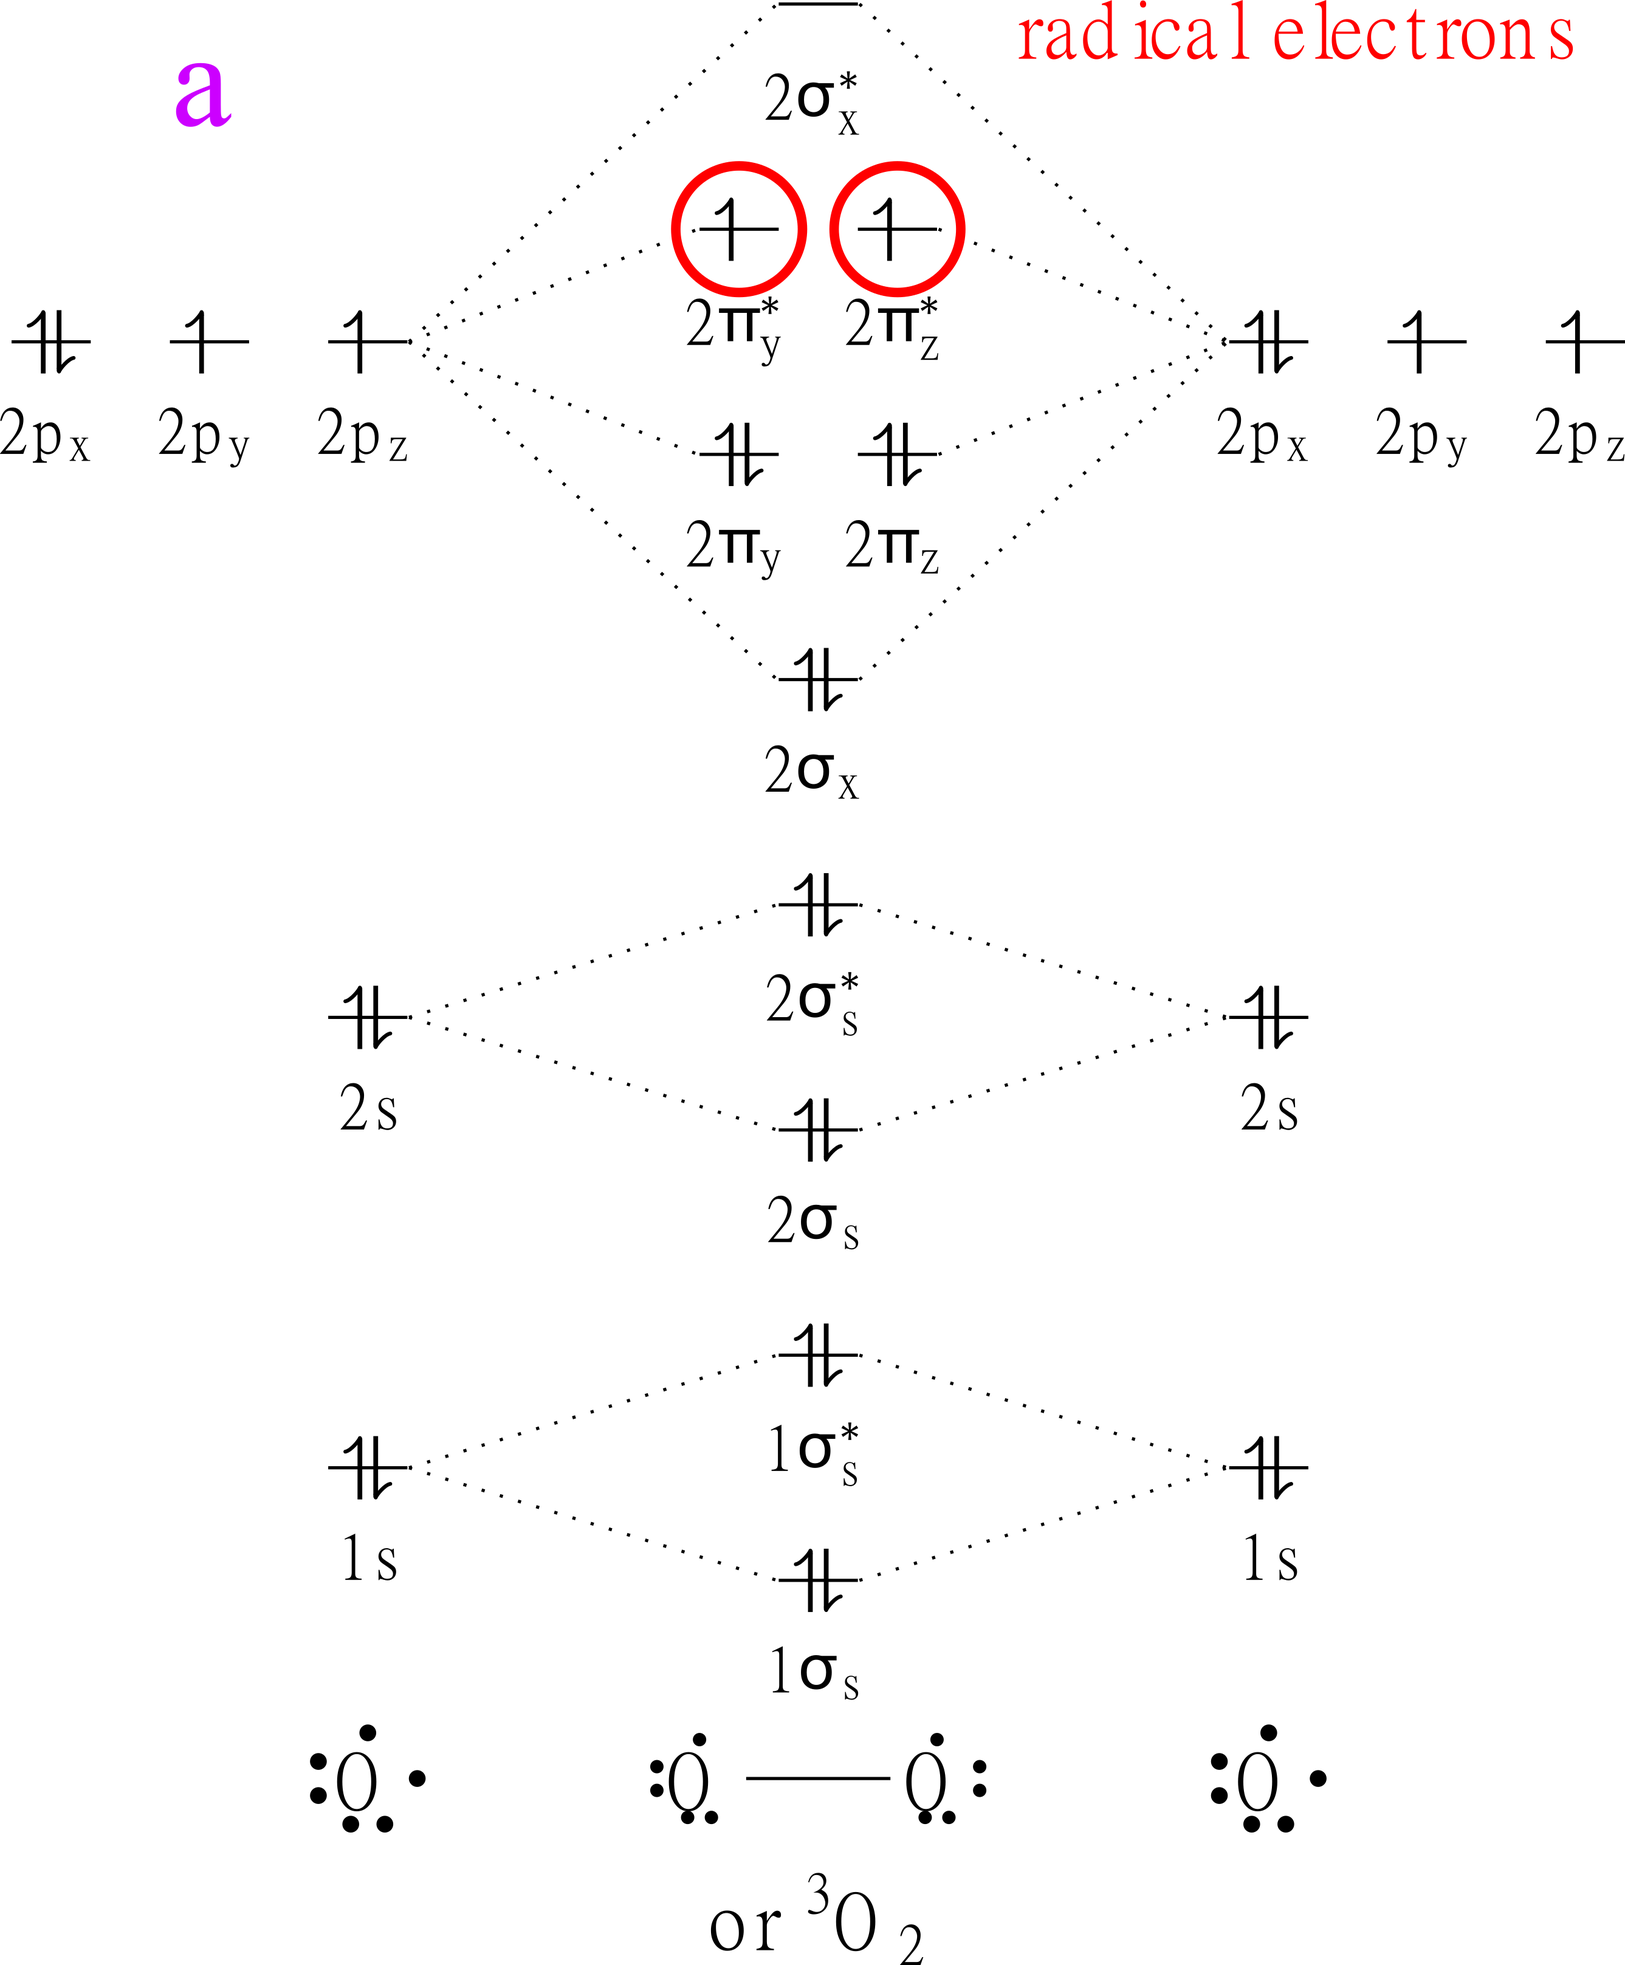
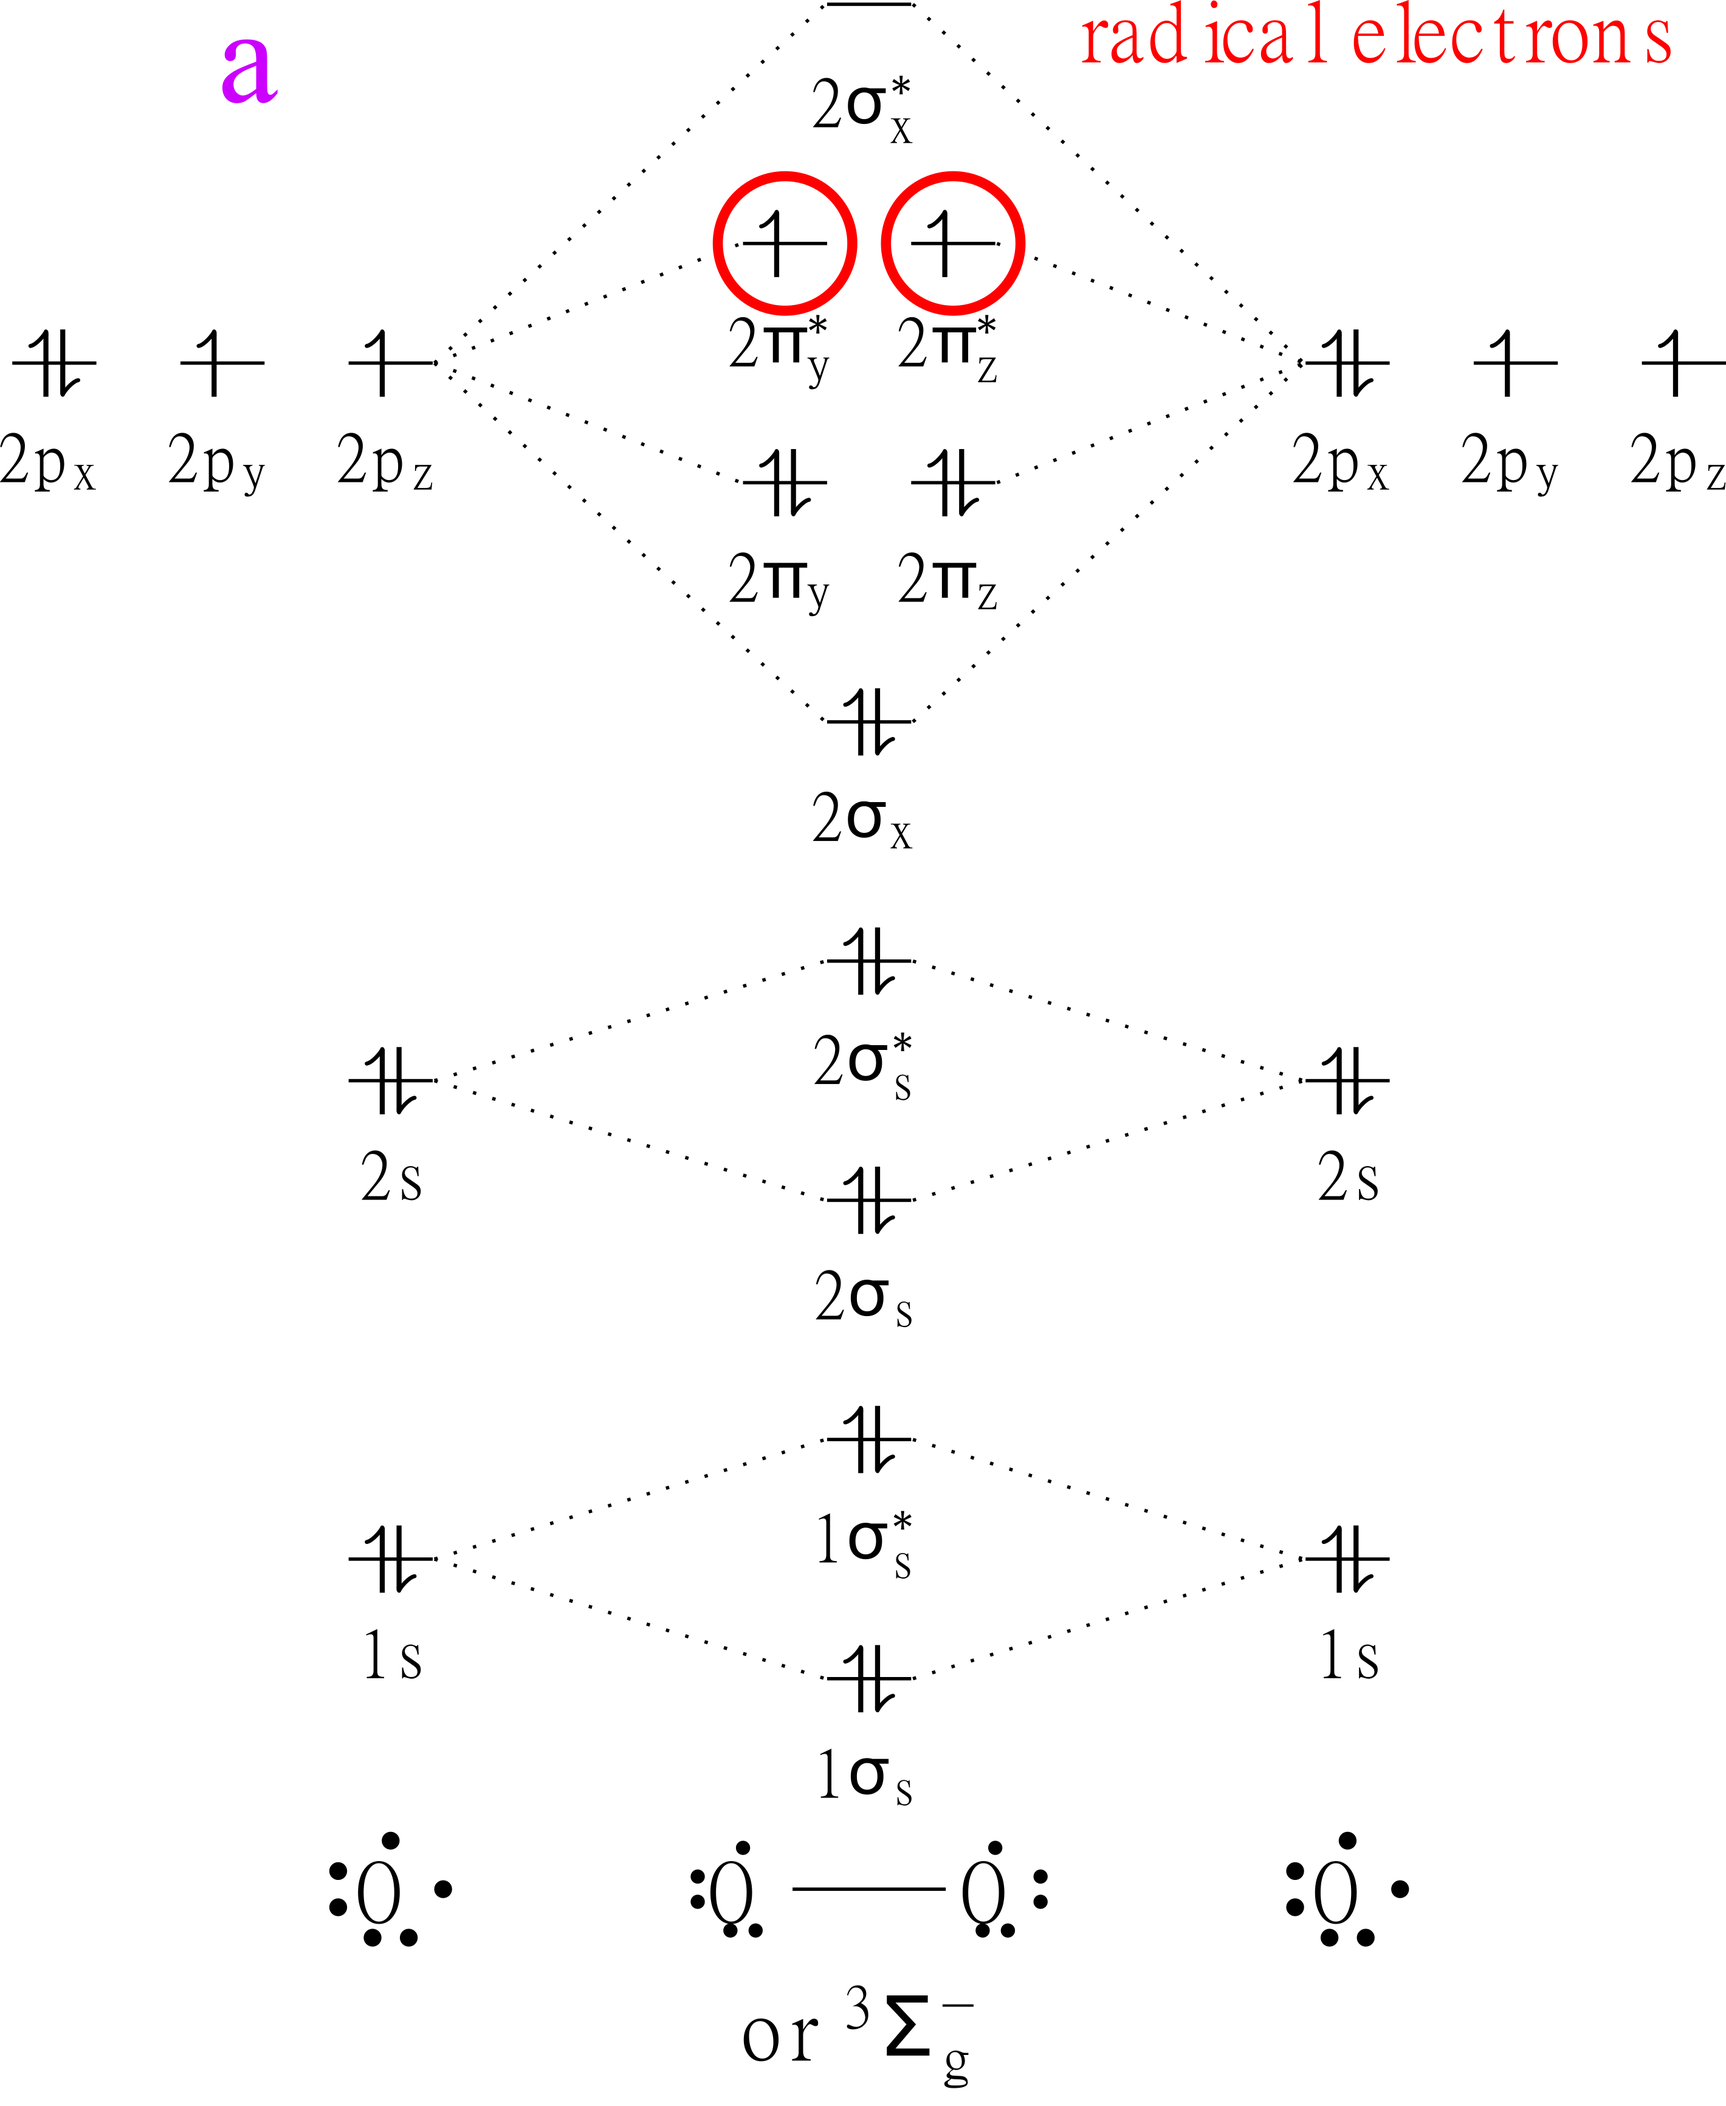
update images

diff --git a/images/PDIpy/background/mo_diagrams.tex b/images/PDIpy/background/mo_diagrams.tex
@@ -26,7 +26,7 @@
     \draw[draw=red, very thick] (2piz*) circle (8pt);
     \draw[draw=red, very thick] (2piy*) circle (8pt);
     \draw[red] (5.1,6.4) node {radical electrons};
-    \draw(3,-2) node{or \ch{^3 O2}};
+    \draw(3,-2) node{or $^3\Sigma_g^-$};
 \end{modiagram}
 
 \vspace{100px}
@@ -49,7 +49,7 @@
         }
     \draw[draw=red, very thick] (2piy*) circle (8pt);
     \draw[red] (5.1,6.4) node {bonded electrons};
-    \draw(3,-2) node{or \ch{^1 O2}};
+    \draw(3,-2) node{or $^1\Delta_g$};
 \end{modiagram}
 
 \end{document}
